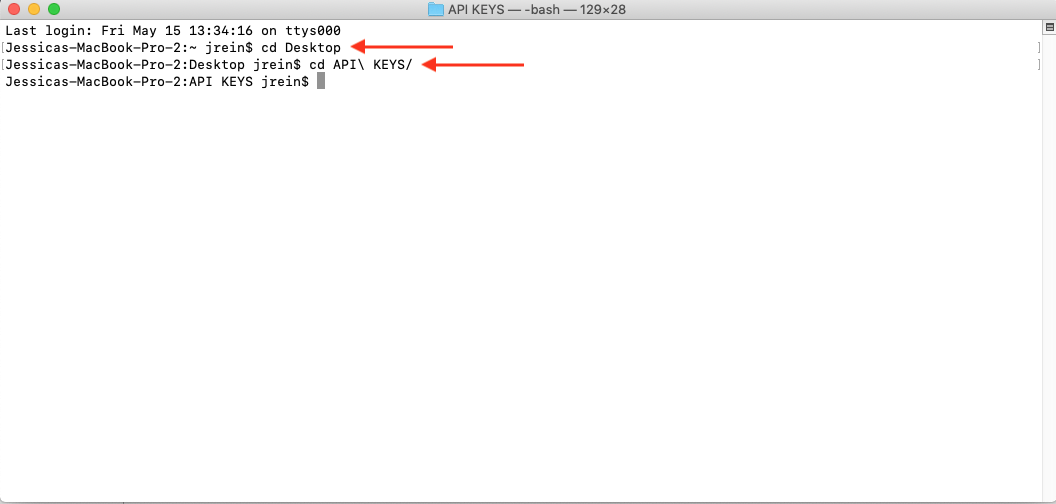
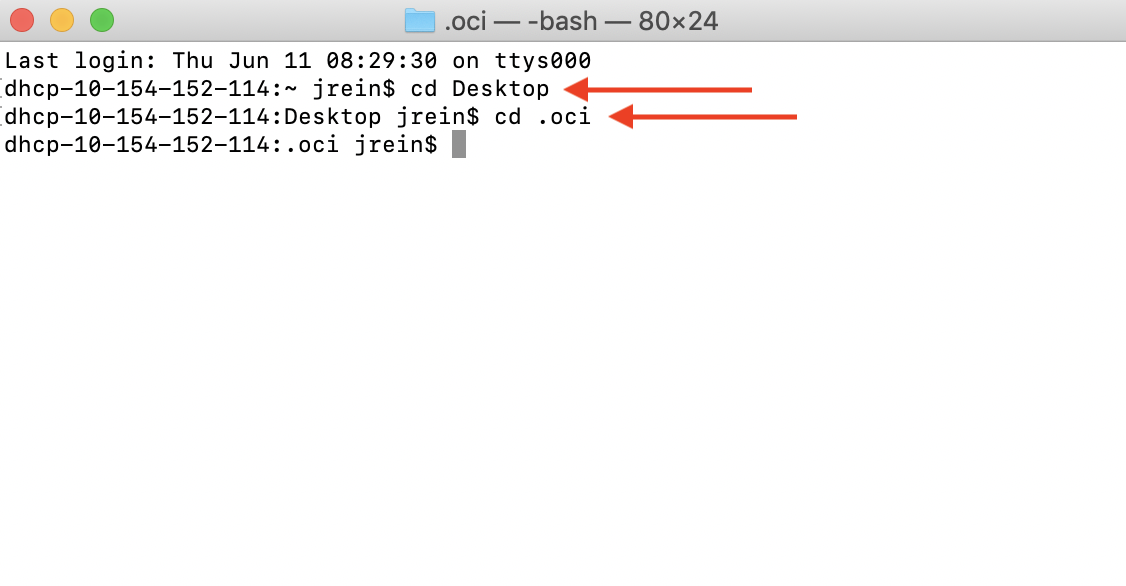
updates to OMC workshop

Changed region(s): [[0.0, 0.0, 1.0, 0.2679], [0.0, 0.9821, 1.0, 1.0]]

diff --git a/Lab1000/LabGuide1000.md b/Lab1000/LabGuide1000.md
@@ -28,7 +28,7 @@ Oracle Management Cloud allows you to gain insight into your IT applications and
 
     ![](./images/omc1.png " ")
 
-2. In the side menu, navigate to **Platform Services**, then select **Management Cloud**.
+2. In the side menu, navigate to **Platform Services**, then select **Management Cloud**.  Note: It may take a couple of minutes to load this page.
 
     ![](./images/omc2.png " ")
 
@@ -72,7 +72,7 @@ Oracle Management Cloud allows you to gain insight into your IT applications and
 
 5. Now, you need to get your **API Signing Key**.  If you do not have a User API Key, you can generate one by opening up the Terminal(MacOS) or Command Prompt(Windows) application on your computer.
 
-6. Make sure you have either the Terminal(MacOS) or the Command Prompt(Windows) application open.  First, navigate to whichever directory you would like to store your credentials in.  You can do this using the **cd** command.  Here, I am navigating to a folder named API KEYS on my Desktop. You can choose whichever folder you'd like.
+6. Make sure you have either the Terminal(MacOS) or the Command Prompt(Windows) application open.  First, navigate to whichever directory you would like to store your credentials in.  You can do this using the **cd** command.  Here, I am navigating to a folder named .oci on my Desktop. (**cd .oci**) You can choose whichever folder you'd like.
 
     ![](./images/omc12.png " ")
 
